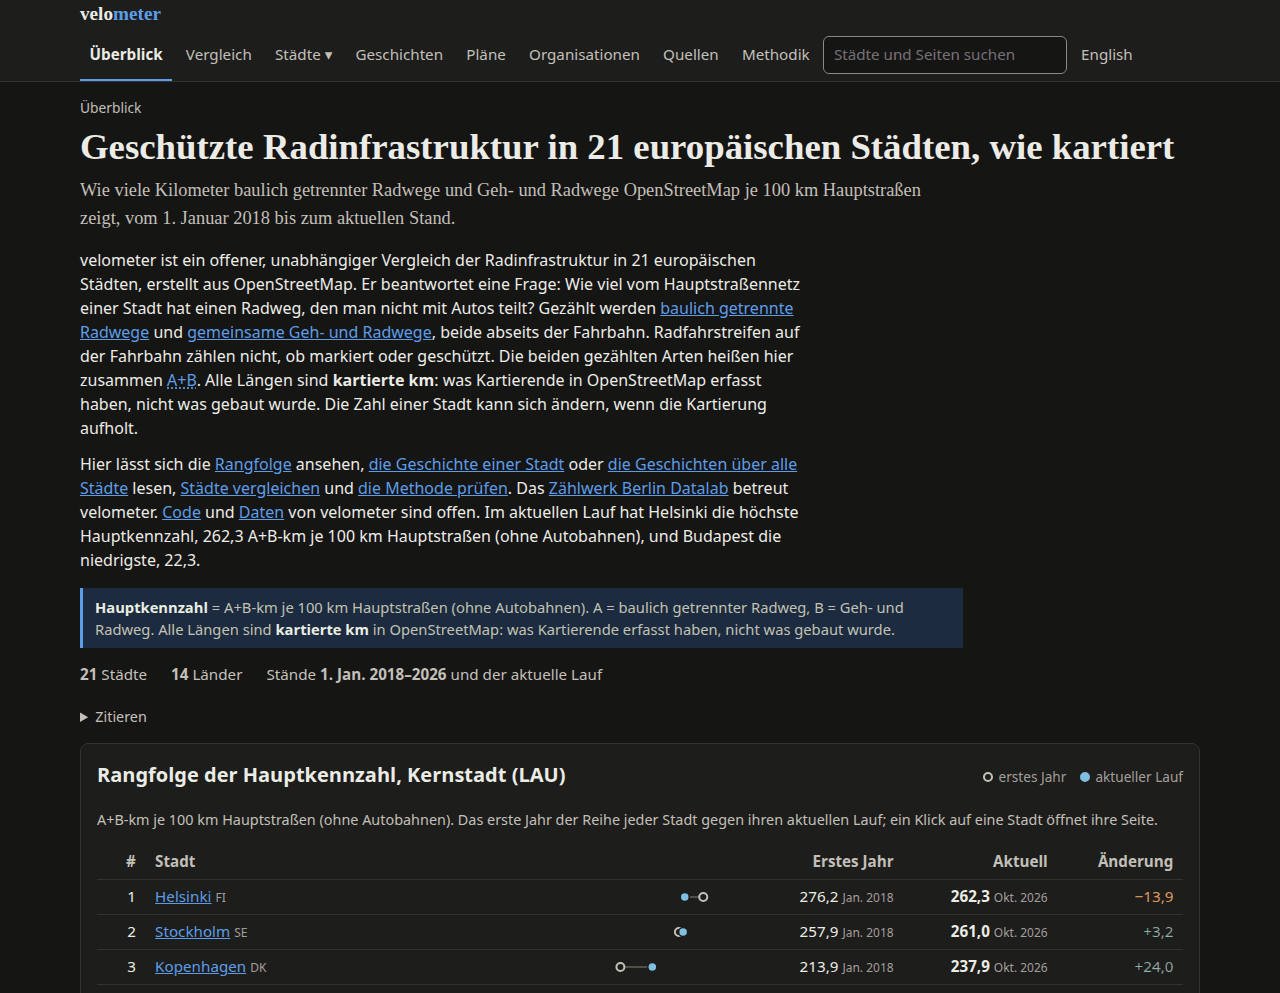
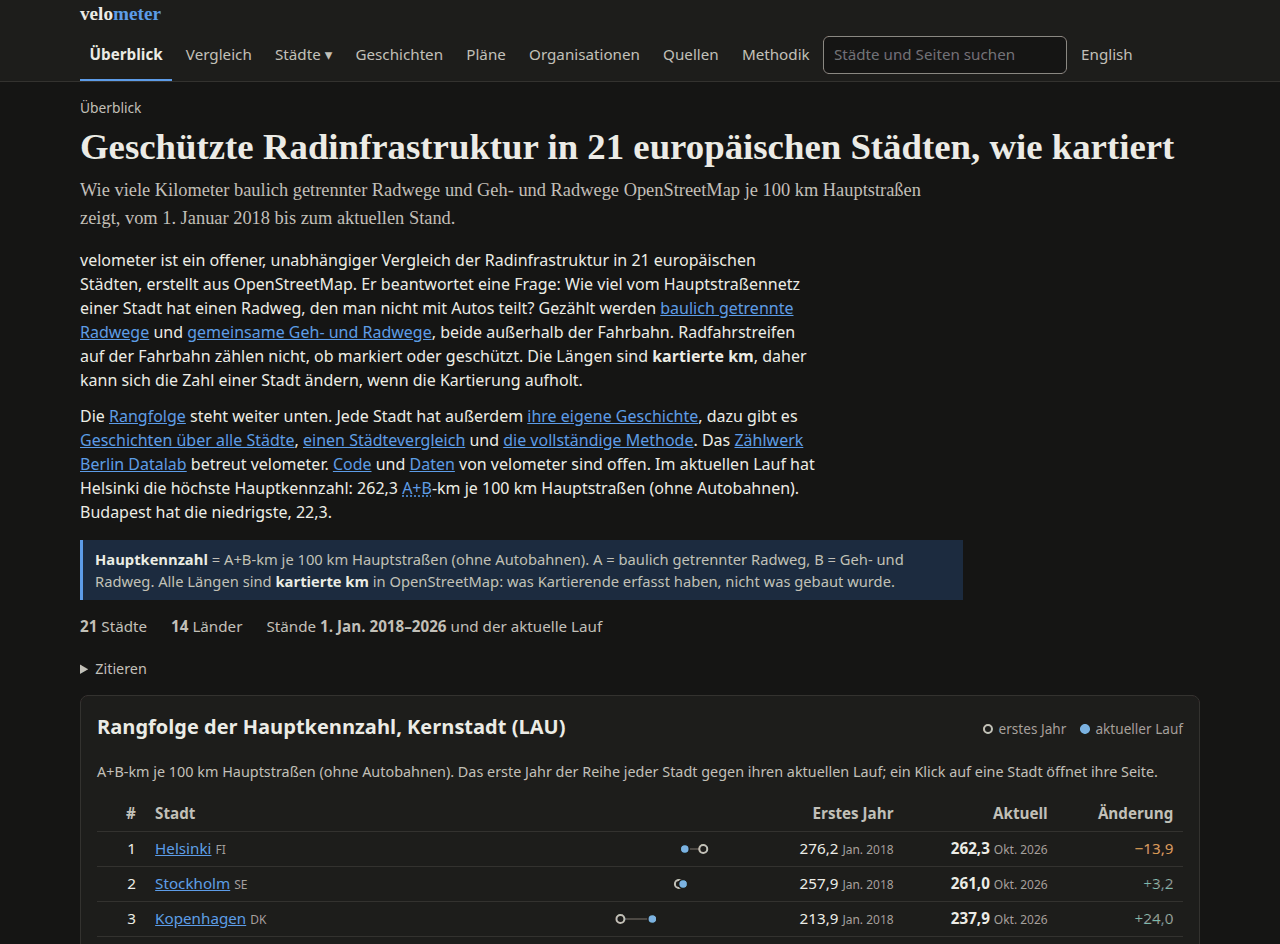
feat(m17): tightened home lead, en and de, with renders
Drops the two sentences the definition box repeats, rewrites "Here a reader can see...",
splits the ranking sentence inside #home-sentence, and says "off the carriageway", true of
tracks beside the road too. Tests: no five-word run shared with the box, no lead sentence
over 25 words, no "apart from the road". Draft for the user's review.

Assisted-by: Claude:claude-opus-5-5

diff --git a/tests/test_m17_home_lead.py b/tests/test_m17_home_lead.py
@@ -18,6 +18,7 @@ from tests.test_app import CONTENT, _docs
 from velometer import i18n
 from velometer.app.main import create_app
 from velometer.config import load_site
+from velometer.report.data import headline_unit
 from velometer.selection import report_selector, report_tiers
 
 BASE_URL = "http://127.0.0.1"
@@ -222,3 +223,50 @@ def test_home_sentence_omitted_below_two_ranked_cities(tmp_path):
         lead = _lead(html)
         assert 'id="home-sentence"' not in lead, lang
         assert MAPPED_KM[lang] in _text(lead), lang  # the rest of the lead stays
+
+
+def _defn(html: str) -> str:
+    m = re.search(r'<p class="defn">(.*?)</p>', html, re.S)
+    assert m, "no definition box"
+    return _text(m.group(1))
+
+
+def _ngrams(text: str, n: int) -> set[tuple[str, ...]]:
+    words = [w.lower() for w in re.findall(r"[\w+'/-]+", text)]
+    return {tuple(words[i : i + n]) for i in range(len(words) - n + 1)}
+
+
+def test_home_lead_does_not_repeat_the_definition_box(homes):
+    """The definition box sits right below the lead (the user's call of 2026-11-02): the lead
+    shares no run of five words with it, so it does not restate the box. The headline's unit,
+    which both name, is left out of the comparison."""
+    for lang, html in homes.items():
+        unit = _text(headline_unit(lang))
+        lead, defn = (_text(x).replace(unit, " ") for x in (_lead(html), _defn(html)))
+        shared = _ngrams(lead, 5) & _ngrams(defn, 5)
+        assert not shared, (lang, sorted(shared))
+
+
+def _sentences(text: str) -> list[str]:
+    """Sentences end at `.`, `?` or `!` before a capital or the end; an abbreviation's point
+    ("excl.", "z. B.") ends none."""
+    text = re.sub(r"\b(excl|ohne|z|B|ca|bzw)\.", r"\1", text)
+    return [s for s in re.split(r"(?<=[.?!])\s+(?=[A-ZÄÖÜ0-9])", text) if s.strip()]
+
+
+def test_home_lead_sentences_are_short(homes):
+    """No sentence of the lead, the home sentence included, runs over 25 words (the user's
+    call of 2026-11-02: the ranking sentence is split)."""
+    for lang, html in homes.items():
+        for sentence in _sentences(_text(_lead(html))):
+            assert _words(sentence) <= 25, (lang, _words(sentence), sentence)
+
+
+# "apart from the road" is untrue of tier A's tracks beside the road (`A_track_side`); the lead
+# places the counted types off the carriageway, which holds for every tier A and B rule
+ROAD_APART = {"en": r"apart from the road|away from the road", "de": r"abseits der Fahrbahn"}
+
+
+def test_home_lead_places_counted_types_truly(homes):
+    for lang, html in homes.items():
+        assert not re.search(ROAD_APART[lang], _text(_lead(html))), lang

diff --git a/docs/review/m17-text.md b/docs/review/m17-text.md
@@ -33,8 +33,8 @@ Decide each one, or say "as is". Section references are below.
 6. **Diagram captions:** decided 2026-11-02: A gets "typically" ("meist"), C introduces its
    separation kinds with "such as" ("etwa"); draft in "Tier diagrams", screenshots re-rendered.
 7. **"Radwegtypen":** decided 2026-11-02: stays.
-8. **Home lead:** it repeats the definition box below it. "Here a reader can see…" reads clumsily,
-   the home sentence is long, and "apart from the road" is loose for side tracks (Task 15).
+8. **Home lead:** decided 2026-11-02: tightened, en and de (draft with old/new text, word
+   counts and renders: "Home lead (Task 15)").
 9. **Phone city scroll:** decided 2026-11-02: the "over time" section stays the tier mix over
    time (Ruling T16a confirmed).
 10. **Methodology correction (German):** decided 2026-11-02: "QECIO zählt alle Radfahr- und
@@ -320,7 +320,62 @@ shows (`ranking_ends` in `src/velometer/app/main.py`); with fewer than two ranke
 out. Strings: `page.index.lead.*` in `content/ui/en.yaml` and `content/ui/de.yaml`. Below as
 rendered on the real data (links in brackets: where they go).
 
-### English (155 words)
+### Tightened 2026-11-02 (draft for review)
+
+The user's decision: drop what repeats the definition box right below, rewrite "Here a reader can
+see…", split the long ranking sentence, and replace "apart from the road", which is untrue of
+tier A's tracks beside the road (`A_track_side`). Same facts, nothing new. Changes:
+
+- **Repeats dropped:** "Together, the two counted types are called A+B here." (the box says
+  A = …, B = …) and "All lengths are mapped km: what mappers recorded in OpenStreetMap, not what
+  was built." (the box says it nearly word for word). "Mapped km" stays once, as the reason a
+  figure can change. A test holds that the lead shares no run of five words with the box (the
+  headline unit aside).
+- **"Here a reader can see…"** becomes "The ranking is below. Each city also has its own story,
+  and there are …", same five links.
+- **The ranking sentence** is two sentences, both inside the one `#home-sentence` element. A
+  test holds every sentence of the lead to at most 25 words (the old ranking sentence had 27).
+- **"apart from the road"** becomes "off the carriageway" / "außerhalb der Fahrbahn": true of a
+  track beside the road, a standalone cycleway, a segregated path and a shared path alike.
+
+English, new (140 words, was 155):
+
+> velometer is an open, independent comparison of cycling infrastructure in 21 European cities,
+> built from OpenStreetMap. It answers one question: how much of a city's main road network has a
+> cycle path you don't share with cars? It counts [separated tracks](/methodology#term-tier-a) and
+> [shared foot/cycle paths](/methodology#term-tier-b), both off the carriageway. Cycle lanes on
+> the road don't count, whether painted or protected. Lengths are in **mapped km**, so a city's
+> figure can change when the mapping catches up.
+>
+> The [ranking](#ranking) is below. Each city also has [its own story](/cities), and there are
+> [stories across all cities](/stories), [a comparison of cities](/compare) and [the full
+> method](/methodology). The [Zählwerk Berlin Datalab](https://zaehlwerk-datalab.de/) maintains
+> velometer. Its [code](https://github.com/senzelden/velometer) and [data](/data/all.csv) are
+> open. In the current run, Helsinki has the highest headline value: 262.3 A+B km per 100 km of
+> main roads (excl. motorways). Budapest has the lowest, 22.3.
+
+German, new (134 words, was 149):
+
+> velometer ist ein offener, unabhängiger Vergleich der Radinfrastruktur in 21 europäischen
+> Städten, erstellt aus OpenStreetMap. Er beantwortet eine Frage: Wie viel vom Hauptstraßennetz
+> einer Stadt hat einen Radweg, den man nicht mit Autos teilt? Gezählt werden [baulich getrennte
+> Radwege](/de/methodology#term-tier-a) und [gemeinsame Geh- und Radwege](/de/methodology#term-tier-b),
+> beide außerhalb der Fahrbahn. Radfahrstreifen auf der Fahrbahn zählen nicht, ob markiert oder
+> geschützt. Die Längen sind **kartierte km**, daher kann sich die Zahl einer Stadt ändern, wenn
+> die Kartierung aufholt.
+>
+> Die [Rangfolge](#ranking) steht weiter unten. Jede Stadt hat außerdem [ihre eigene
+> Geschichte](/de/cities), dazu gibt es [Geschichten über alle Städte](/de/stories), [einen
+> Städtevergleich](/de/compare) und [die vollständige Methode](/de/methodology). Das [Zählwerk
+> Berlin Datalab](https://zaehlwerk-datalab.de/) betreut velometer.
+> [Code](https://github.com/senzelden/velometer) und [Daten](/data/all.csv) von velometer sind
+> offen. Im aktuellen Lauf hat Helsinki die höchste Hauptkennzahl: 262,3 A+B-km je 100 km
+> Hauptstraßen (ohne Autobahnen). Budapest hat die niedrigste, 22,3.
+
+The first `A+B` on the page, and so its glossary link, is now the one in the home sentence's
+unit. The old text, as first reviewed, follows.
+
+### English, before 2026-11-02 (155 words)
 
 > velometer is an open, independent comparison of cycling infrastructure in 21 European cities,
 > built from OpenStreetMap. It answers one question: how much of a city's main road network has a
@@ -337,7 +392,7 @@ rendered on the real data (links in brackets: where they go).
 > run, Helsinki has the highest headline value, 262.3 A+B km per 100 km of main roads (excl.
 > motorways), and Budapest the lowest, 22.3.
 
-### German (149 words)
+### German, before 2026-11-02 (149 words)
 
 > velometer ist ein offener, unabhängiger Vergleich der Radinfrastruktur in 21 europäischen
 > Städten, erstellt aus OpenStreetMap. Er beantwortet eine Frage: Wie viel vom Hauptstraßennetz
@@ -375,7 +430,9 @@ City names, values and the city count come from the data; the rest is fixed text
 
 ### Renders
 
-Top of the home page down to the ranking's third row, real data, public site values:
+Top of the home page down to the ranking's third row, real data, public site values
+(re-rendered 2026-11-02 with the tightened lead; axe 0 violations in all 8; the diagram variant
+is the old one, not re-rendered):
 
 - `m17-home/home-{en,de}-{light,dark}-390.png`
 - `m17-home/home-{en,de}-{light,dark}-1280.png`
